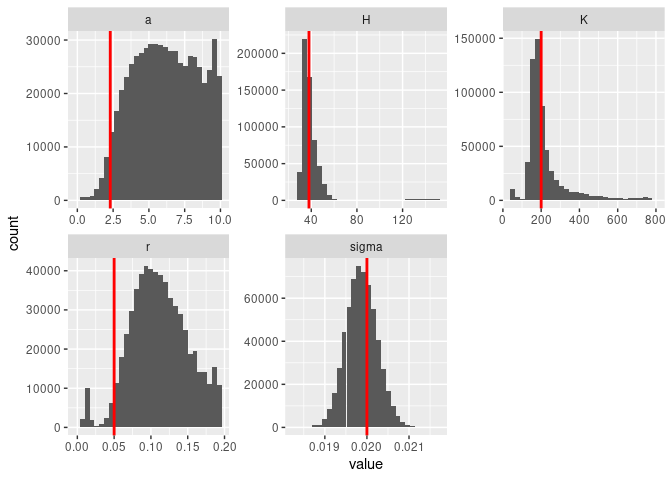
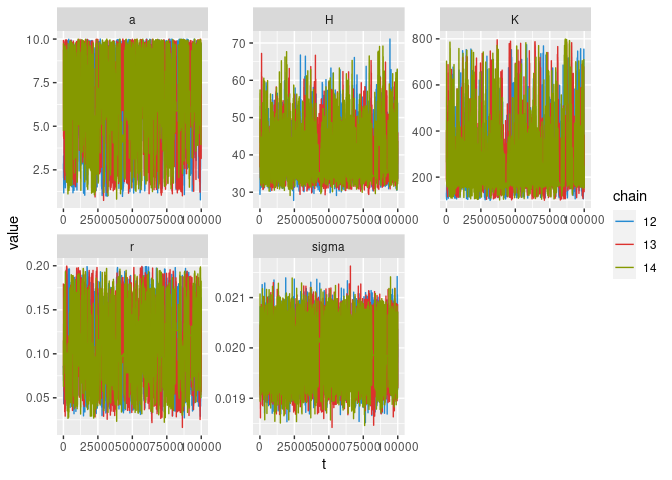
re-run

diff --git a/mcmc-saddlenode.md b/mcmc-saddlenode.md
@@ -23,7 +23,7 @@ txtcolor <- "#586e75"
 
 ``` r
 p <- list(r = .05, K = 200, Q = 5, H = 38, sigma = .02, a=2.3, N = 3e3, x0 = 20)
-horizon <- 50
+horizon <- 1500
 ```
 
 ``` r
@@ -57,7 +57,6 @@ train <- sim_df %>% filter(t < 1500) %>% mutate(line = "training data")
 ```
 
 ``` r
-#plan("multisession")
 p1 <- p
 p1$x0 <- train[[length(train$x),"x"]]
 p1$N <- horizon
@@ -105,11 +104,7 @@ x_t <- wide[-n,]
 a <- uniform(0, 10)
 ```
 
-    ## ℹ Initialising python and checking dependencies, this may take a moment.
-
-    ## ✓ Initialising python and checking dependencies ... done!
-
-    ## 
+    ## ℹ Initialising python and checking dependencies, this may take a moment.[K✓ Initialising python and checking dependencies ... done![K
 
 ``` r
 r <- uniform(0, 4 * p$r)
@@ -126,13 +121,21 @@ m <- model(a, r, K, H, sigma)
 ```
 
 ``` r
-system.time({
-  draws <- mcmc(m, n_samples = 10000, warmup = 3000, chains = 60, verbose = FALSE)
+mmcmc <- memoise::memoise(mcmc, cache = memoise::cache_filesystem("mcmc_cache"))
+                 
+bench::bench_time({                 
+draws <- mmcmc(m, n_samples = 100000, warmup = 50000, chains = 4, verbose = FALSE)
 })
 ```
 
-    ##      user    system   elapsed 
-    ## 20958.904  2800.903   829.754
+    ## process    real 
+    ##   7.84h   1.67h
+
+``` r
+bayesplot::mcmc_trace(draws[1:4])
+```
+
+![](mcmc-saddlenode_files/figure-gfm/unnamed-chunk-10-1.png)<!-- -->
 
 ``` r
 samples <-  
@@ -141,6 +144,13 @@ samples <-
           .id = "chain") %>% 
   gather(variable, value, -t, -chain)
 ```
+
+``` r
+samples %>% filter(chain %in% as.character(12:16))  %>% 
+  ggplot(aes(t, value, col=chain)) + geom_line() + facet_wrap(~variable, scales = "free")
+```
+
+![](mcmc-saddlenode_files/figure-gfm/unnamed-chunk-12-1.png)<!-- -->
 
 ``` r
 #Q = 5
@@ -156,7 +166,7 @@ samples %>% ggplot() +
   facet_wrap(~variable, scales = "free")
 ```
 
-![](mcmc-saddlenode_files/figure-gfm/unnamed-chunk-12-1.png)<!-- -->
+![](mcmc-saddlenode_files/figure-gfm/unnamed-chunk-14-1.png)<!-- -->
 
 Replicate simulations of stochastic model with parameters drawn from
 posteriors
@@ -227,4 +237,4 @@ model_forecast %>%
   scale_color_solarized()
 ```
 
-![](mcmc-saddlenode_files/figure-gfm/unnamed-chunk-17-1.png)<!-- -->
+![](mcmc-saddlenode_files/figure-gfm/unnamed-chunk-19-1.png)<!-- -->
